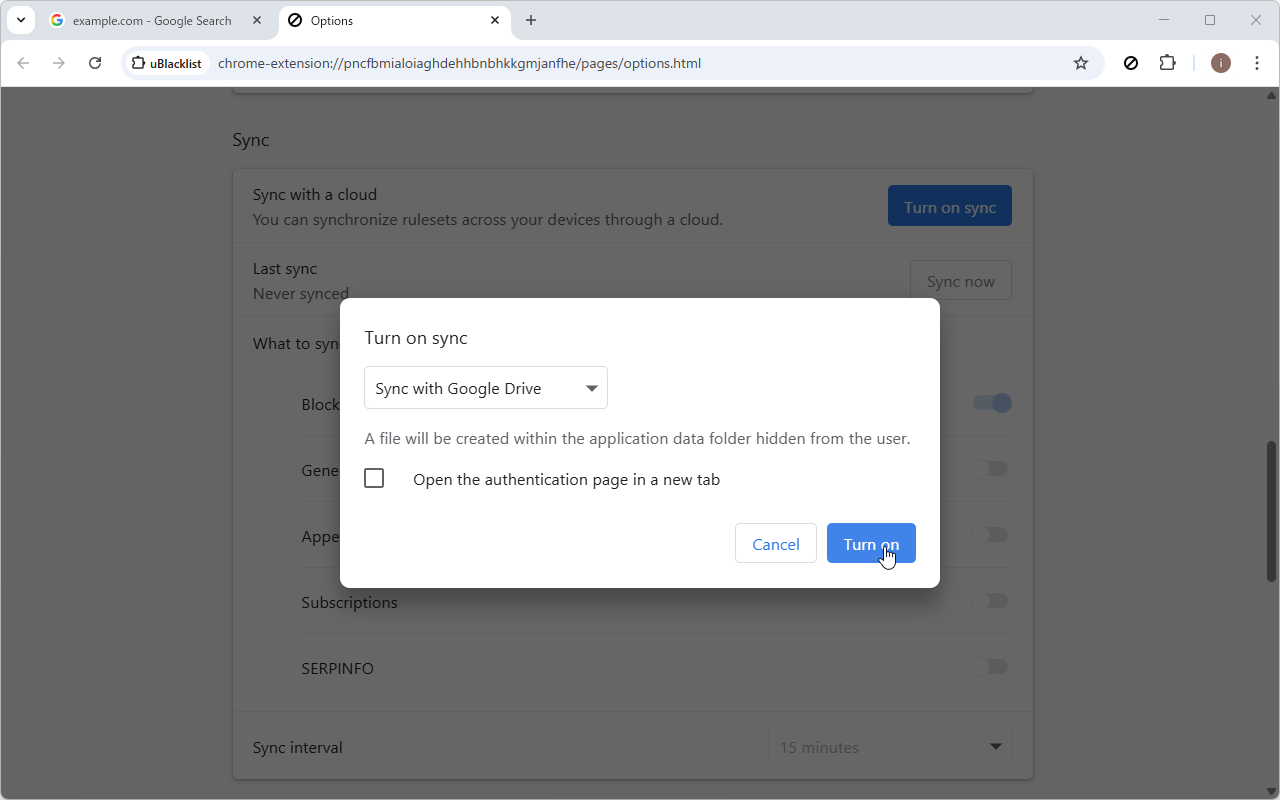
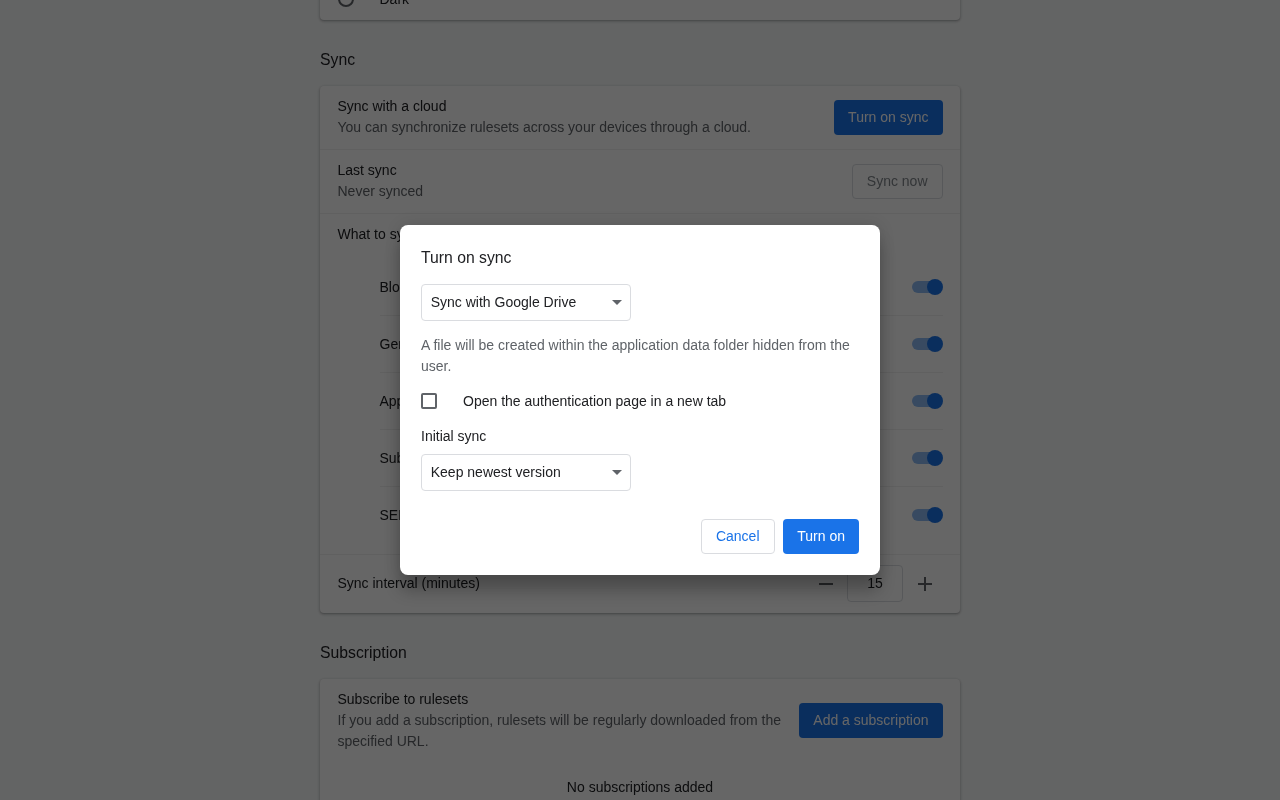
Document OneDrive, WebDAV, and browser sync (#92)

diff --git a/content/en/docs/advanced-features.md b/content/en/docs/advanced-features.md
@@ -191,17 +191,15 @@ This extension supports Bing, Brave, DuckDuckGo, Ecosia, SearXNG, Startpage.com,
 
 ## Sync {#sync}
 
-You can synchronize rulesets among devices using Google Drive or Dropbox.
+You can synchronize rulesets and other settings across devices using Google Drive, Dropbox, OneDrive, a WebDAV server, or the sync feature built into your browser.
 
-To turn on sync, click the "Turn on sync" button in the options page and select a cloud.
+To turn on sync, click the "Turn on sync" button in the options page and select a sync method.
 
 ![turn on sync](/img/advanced-features/sync-1.png)
 
-Follow the instructions in the dialog to authenticate.
+Follow the instructions in the dialog to authenticate. Once authentication succeeds, your settings will be regularly synchronized.
 
-![authenticate](/img/advanced-features/sync-2.png)
-
-Once authentication succeeds, your ruleset will be regularly synchronized with the selected cloud.
+You can choose what to sync in the "What to sync" list. The "Initial sync" option in the dialog determines which version is kept when the local and remote settings differ at the first sync.
 
 ### Google Drive {#google-drive}
 
@@ -212,6 +210,26 @@ The ruleset is saved in the application data folder on your Google Drive. It is 
 ### Dropbox {#dropbox}
 
 The ruleset is saved in the `/Apps/uBlacklist/` folder on your Dropbox. The folder name may vary depending on your language.
+
+### OneDrive {#onedrive}
+
+You will be required to permit access to `https://login.microsoftonline.com`.
+
+The ruleset is saved in the `/Apps/uBlacklist/` folder on your OneDrive.
+
+OneDrive is not available in Safari.
+
+### WebDAV {#webdav}
+
+Enter the URL of a folder on your WebDAV server, along with the username and password. You will be required to permit access to the URL.
+
+The ruleset is saved in the specified folder, which is created if it does not exist.
+
+### Browser {#browser}
+
+This method uses the sync feature built into your browser, so sync timing depends on the browser. The browser's sync storage has a size limit, so if your ruleset is too large, reduce the number of rules or switch to another sync method.
+
+Browser sync is not available in Safari or Firefox for Android.
 
 ## Subscription {#subscription}
 

diff --git a/content/en/docs/introduction.md b/content/en/docs/introduction.md
@@ -22,5 +22,5 @@ uBlacklist is a browser extension that filters Google Search results, available 
 - Block sites by specific titles using regular expressions
 - Highlight preferred sites in search results
 - Support for Bing, Brave, DuckDuckGo, Ecosia, SearXNG, Startpage.com, Yahoo! JAPAN, and Yandex
-- Synchronize rulesets across devices using Google Drive or Dropbox
+- Synchronize rulesets across devices using Google Drive, Dropbox, OneDrive, WebDAV, or browser sync
 - Subscribe to public rulesets
